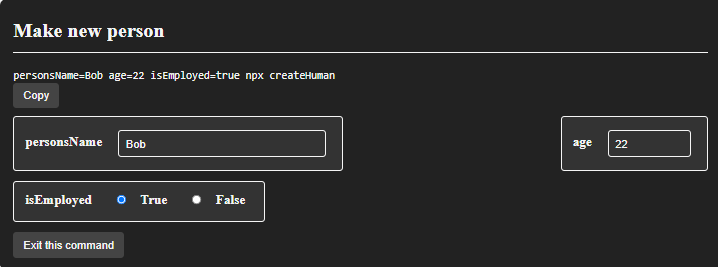
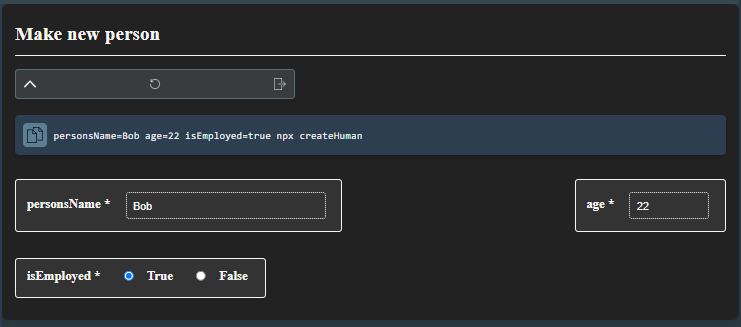
Update /about images with new UI

Changed region(s): [[0.0, 0.0, 1.0, 1.0]]

diff --git a/src/app/about/page.tsx b/src/app/about/page.tsx
@@ -20,8 +20,8 @@ import darkModeGenMakeNewPersonIMG from "../../../utils/images/generatemakenewpe
 import lightModeGenMakeNewPersonIMG from "../../../utils/images/generatemakenewperson-lightmode.png";
 
 // These two images show command creation UI for baseCommand and title
-import darkModeCreateBaseComandTitleIMG from "../../../utils/images/createcommand-basecommandandtitle-darkmode.png";
-import lightModeCreateBaseComandTitleIMG from "../../../utils/images/createcommand-basecommandandtitle-lightmode.png";
+import darkModeCreateBaseCommandTitleIMG from "../../../utils/images/createcommand-basecommandandtitle-darkmode.png";
+import lightModeCreateBaseCommandTitleIMG from "../../../utils/images/createcommand-basecommandandtitle-lightmode.png";
 
 // These two images show Parameter creation UI
 import lightModePCFIMG from "../../../utils/images/PCF-lightmode.png";
@@ -117,8 +117,8 @@ const About = () => {
 						<Image
 							src={
 								isDarkMode
-									? darkModeCreateBaseComandTitleIMG
-									: lightModeCreateBaseComandTitleIMG
+									? darkModeCreateBaseCommandTitleIMG
+									: lightModeCreateBaseCommandTitleIMG
 							}
 							alt="Inputs to create a new Command with title and base command"
 						/>

diff --git a/utils/CommandExecutionUtils/CommandExecutionStyles.ts b/utils/CommandExecutionUtils/CommandExecutionStyles.ts
@@ -64,7 +64,7 @@ const CEFInput = styled.input<CEFTextInputProps>`
 			: null};
 	margin: 0.75rem 1rem;
 	box-sizing: border-box;
-	border: 1px solid ${({ theme }) => theme.commandGeneration.inputText};
+	border: 1px dotted ${({ theme }) => theme.commandGeneration.inputText};
 	border-radius: 4px;
 	background: ${({ theme, hasError }) =>
 		hasError
@@ -81,6 +81,7 @@ const CEFLabel = styled.label`
 	margin-left: 10px;
 	margin-right: 3px;
 	margin-bottom: 0.25rem;
+	max-width: 200px;
 `;
 
 const CEFButton = styled.button`
@@ -125,7 +126,7 @@ const CEFParametersContainer = styled.section`
 const PEFContainer = styled.div<{ haserror?: boolean }>`
 	display: flex;
 	flex-direction: row;
-	max-width: 400px;
+	max-width: 500px;
 	background: ${({ theme, haserror }) =>
 		haserror
 			? "rgba(255, 0, 0, 0.1)"

diff --git a/src/components/CommandCreationComponents/CommandCreationOrEditForm.tsx b/src/components/CommandCreationComponents/CommandCreationOrEditForm.tsx
@@ -371,7 +371,7 @@ const CommandCreationOrEditForm: React.FC<FormProps> = (props) => {
 				form", "Submit", "Collapse All Params" */}
 				{/* Made a function for this because it's used twice in this component */}
 				{/* Only shows at bottom of page if user has made at least one param, seems unnecessary otherwisei */}
-				{parameterList.length > 0 &&
+				{parameterList.length > 1 &&
 					parameterCreationButtons({
 						collapseAllParams,
 						update,
